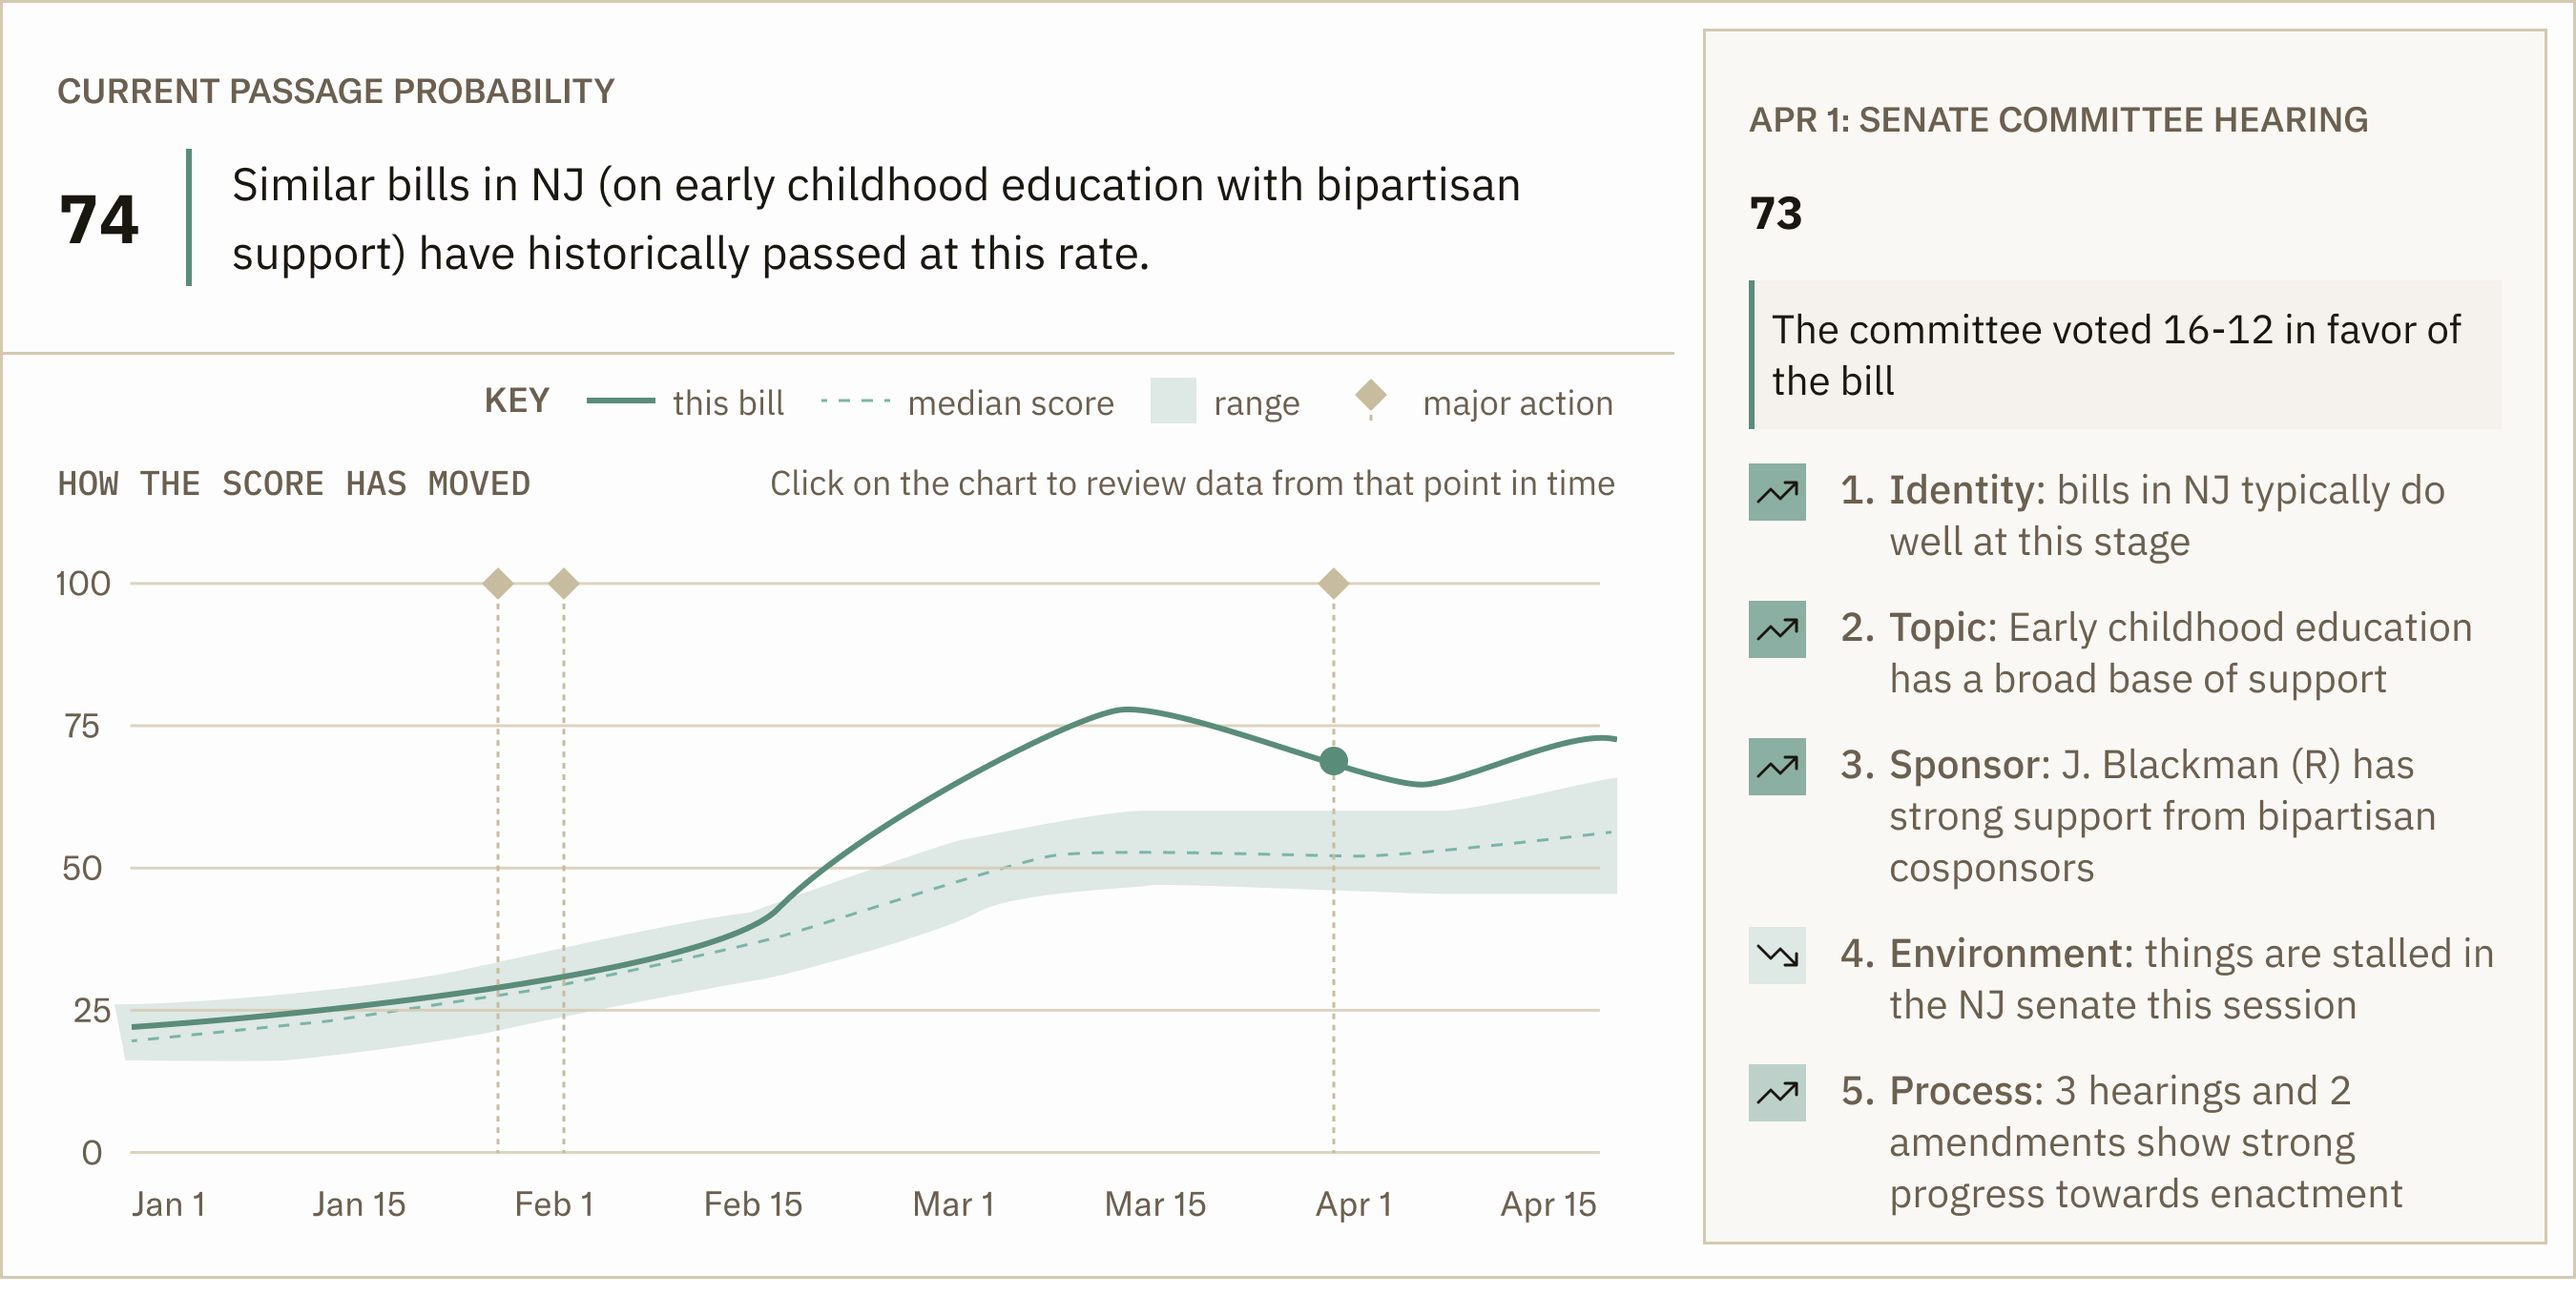
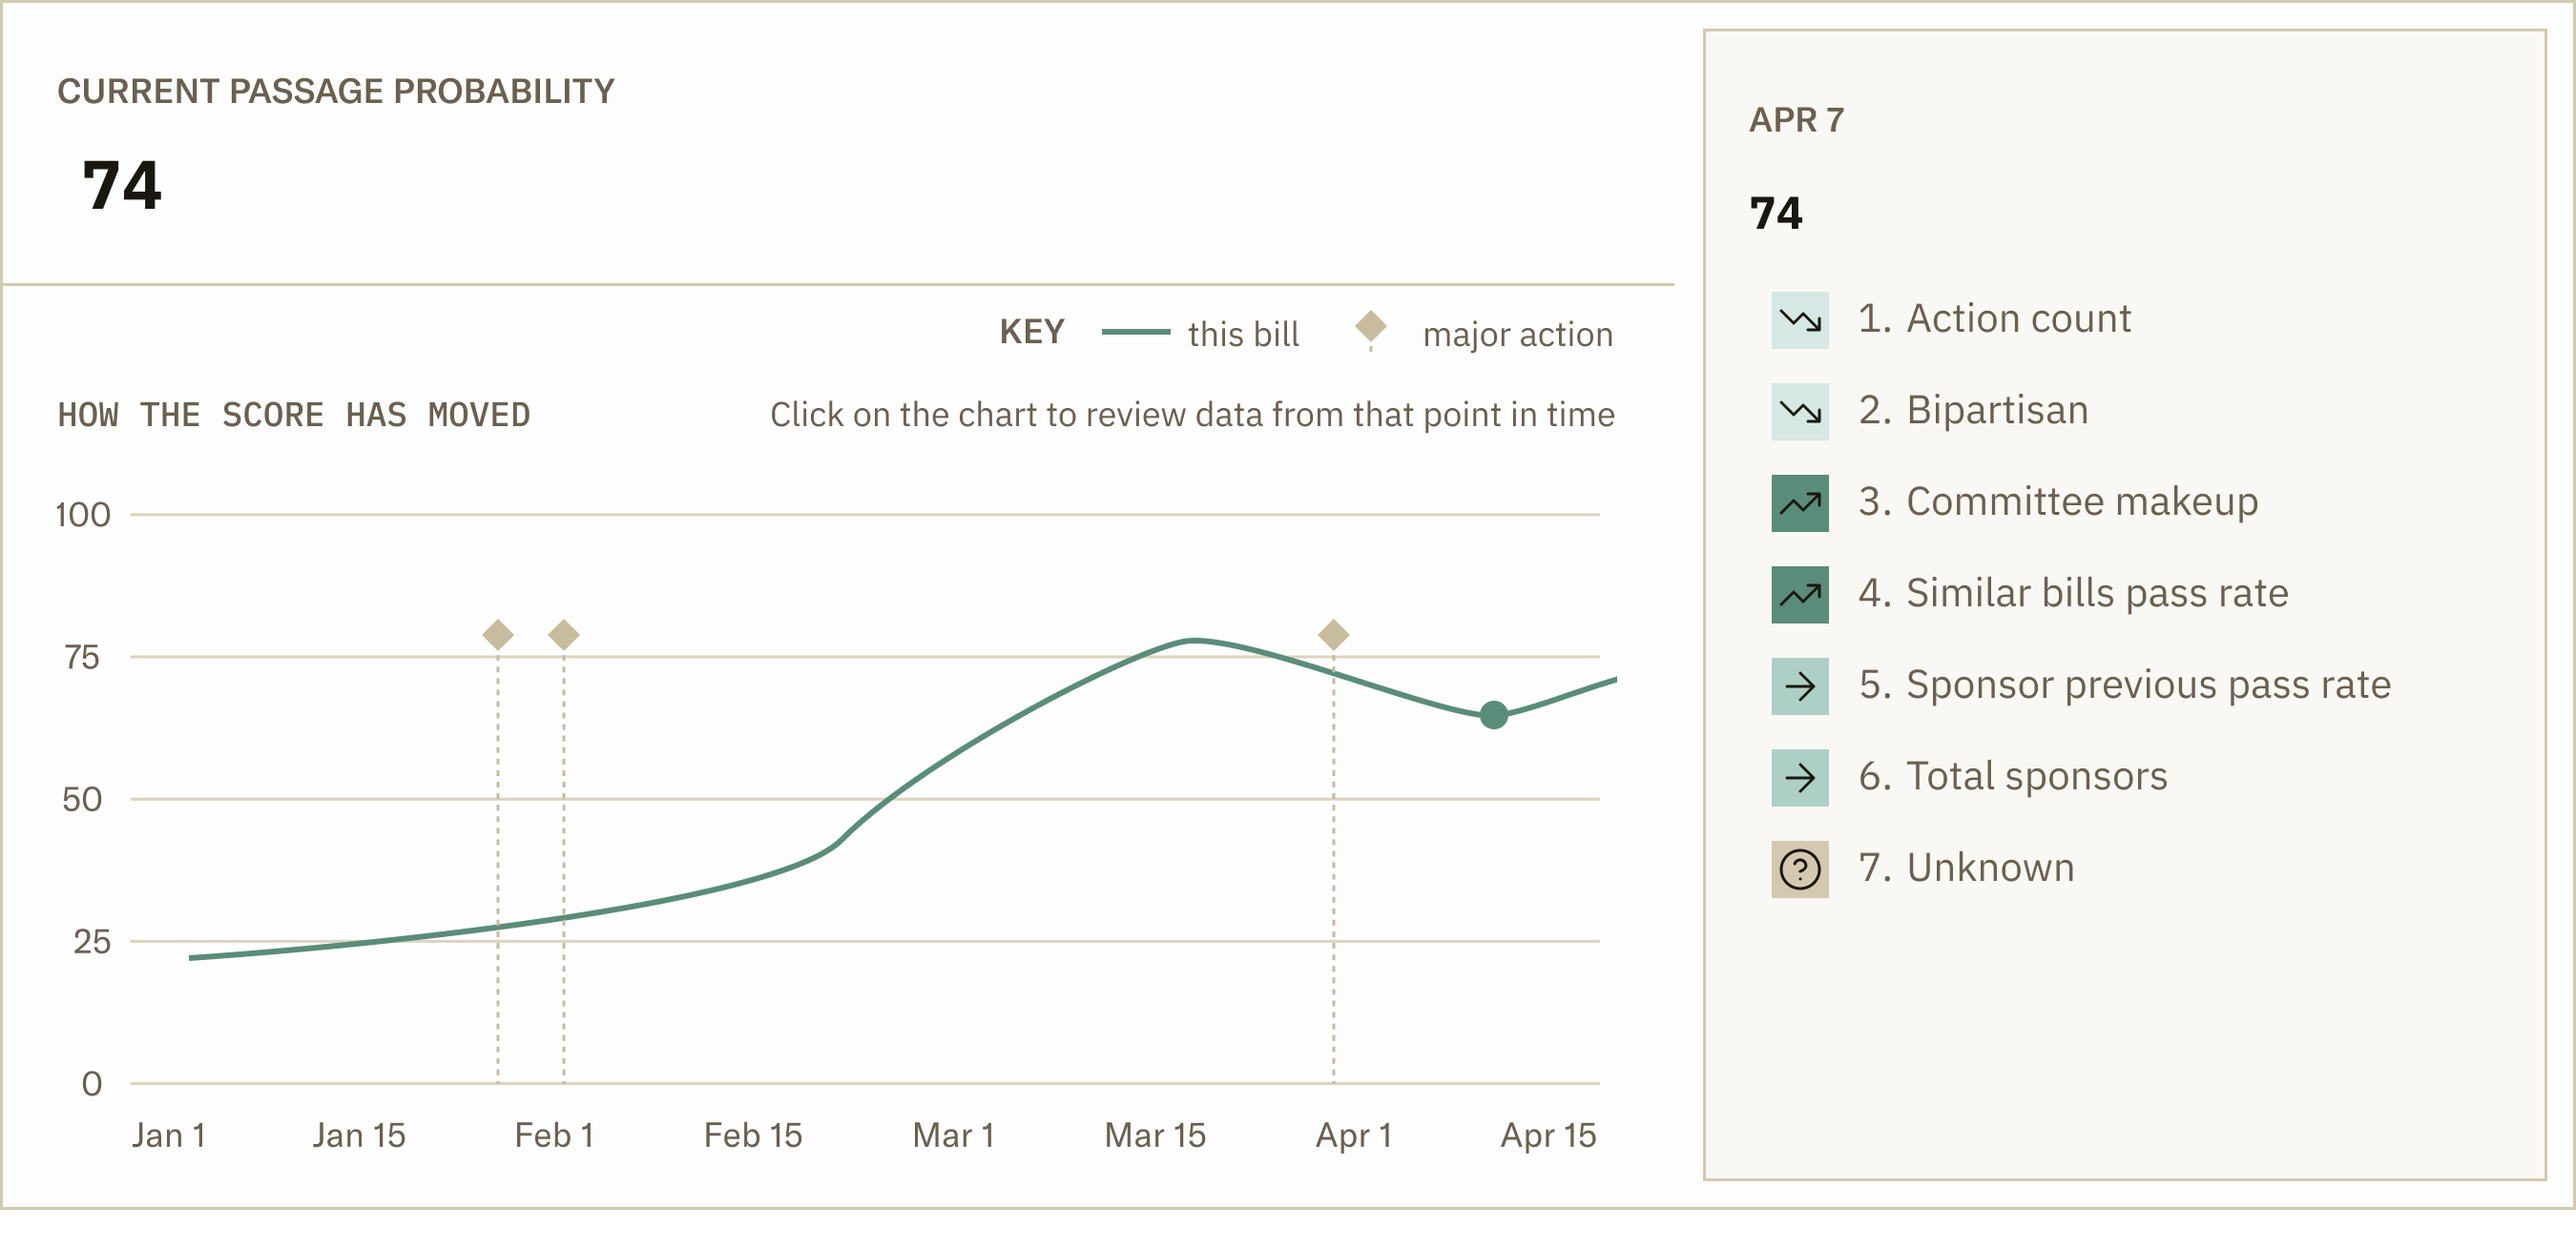
state-affairs: corrected momentum card + reconcile copy
- replace momentum-score-card.png with corrected version (sequential 1-7 factors, score 74)
- momentum copy: drop median-line/shaded-band clause (new card doesn't show them)
- detail-panels: replace empty Prototype A/B two-up with the momentum card image

diff --git a/state-affairs.html b/state-affairs.html
@@ -1066,22 +1066,9 @@
       </p>
 
       <div class="figure">
-        <div class="figure-pair">
-          <!-- TODO image: images/state-affairs/360-prototype-inline.png -->
-          <div>
-            <div class="figure-image tall">
-              <span class="figure-image-label">Prototype A · Inline expansion</span>
-            </div>
-          </div>
-          <!-- TODO image: images/state-affairs/360-prototype-linkout.png -->
-          <div>
-            <div class="figure-image tall">
-              <span class="figure-image-label">Prototype B · Compact link-out rows</span>
-            </div>
-          </div>
-        </div>
+        <img src="images/state-affairs/momentum-score-card.png" alt="The passage-probability card showing the current score, trajectory chart, and numbered factor list">
         <div class="figure-caption">
-          <span>Two variants tested before settling on the inline-expansion pattern.</span>
+          <span>The passage-probability card — current score, trajectory, and factor breakdown.</span>
         </div>
       </div>
 
@@ -1184,7 +1171,7 @@
         </div>
       </div>
 
-      <p>The second view is trajectory. A standalone card pairs the current score with a line chart showing how it's moved over time, against the median score for comparable bills in the same state and topic, with a shaded range showing the typical band those bills land in. Major legislative actions are marked on the timeline. Users can click any point to time-travel: the side panel updates to show what the score was at that action, what drove it, and what changed. A bill climbing from 30% to 70% over two weeks reads completely differently than a bill sitting at 55% for a month — and now the surface makes that visible.</p>
+      <p>The second view is trajectory. A standalone card pairs the current score with a line chart showing how it's moved over time. Major legislative actions are marked on the timeline. Users can click any point to time-travel: the side panel updates to show what the score was at that action, what drove it, and what changed. A bill climbing from 30% to 70% over two weeks reads completely differently than a bill sitting at 55% for a month — and now the surface makes that visible.</p>
 
       <div class="figure">
         <img src="images/state-affairs/momentum-score-card.png" alt="The momentum score rendered as a standalone card">
